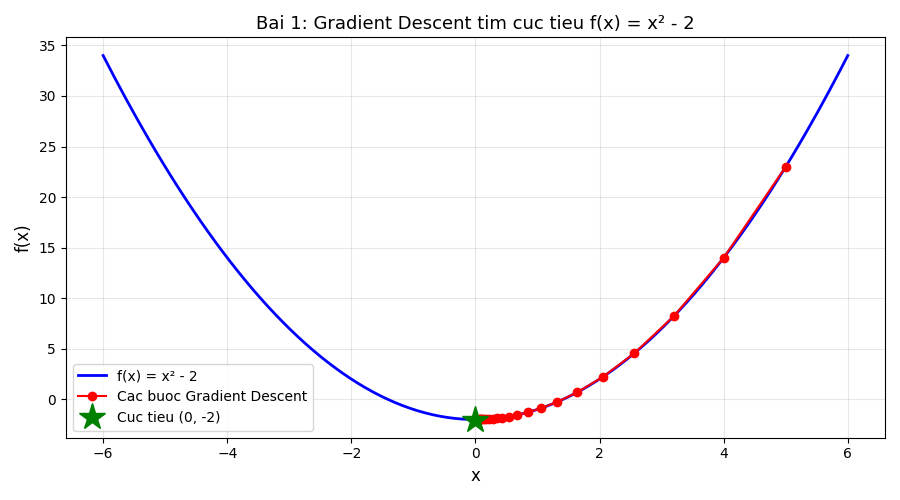
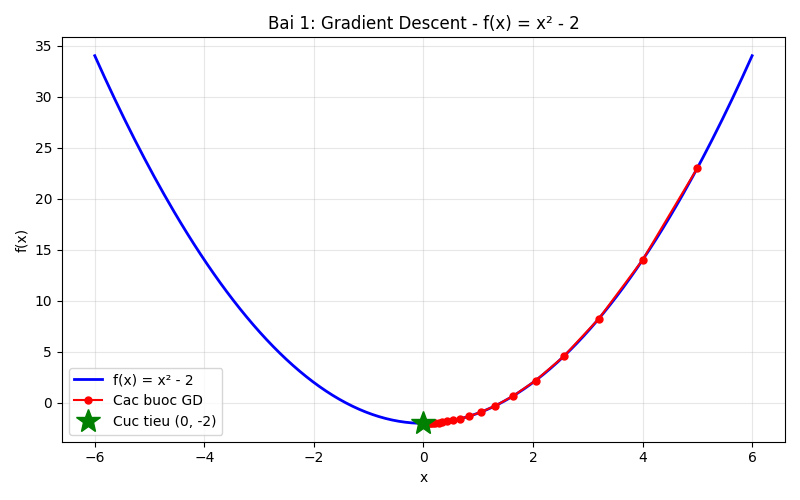
Viet lai 2 bai Gradient Descent theo phong cach trong so (cost, grad, myGD)

diff --git a/gradientDescent/bai2_gradient_descent.py b/gradientDescent/bai2_gradient_descent.py
@@ -1,16 +1,13 @@
 """
 bai2_gradient_descent.py
 ========================
-BÀI 2: Tìm giá trị cực tiểu của hàm số g(x) = (1/3)x³ - x
-bằng thuật toán Gradient Descent.
+BÀI 2: Tìm giá trị cực tiểu của g(x) = (1/3)x³ - x bằng Gradient Descent
 
-Công thức đạo hàm: (a·xⁿ)' = n·(a·xⁿ⁻¹)
-  g'(x) = 3·(1/3)·x² - 1·x⁰ = x² - 1
-
-Lưu ý: g(x) là hàm bậc 3, có 2 điểm critical (g'(x)=0):
-  x = 1  -> g(1)  = -2/3  (cực tiểu)
-  x = -1 -> g(-1) =  2/3  (cực đại)
-Gradient Descent sẽ tìm CỰC TIỂU (x = 1) nếu chọn điểm khởi tạo phù hợp.
+Phân tích (như trong sổ):
+  g(x)  = (1/3)x³ - x
+  g'(x) = 3·(1/3)·x² - 1 = x² - 1 = 0  ->  x = ±1
+  x = 1  -> g(1) = -2/3  (cuc tieu)
+  x = -1 -> g(-1) = 2/3  (cuc dai)
 """
 
 import numpy as np
@@ -19,99 +16,57 @@ matplotlib.use('Agg')
 import matplotlib.pyplot as plt
 
 
-# ============================================================
-# HÀM SỐ VÀ ĐẠO HÀM
-# ============================================================
-def g(x):
-    """Hàm số g(x) = (1/3)x³ - x"""
+# Ham so g(x) = (1/3)x^3 - x
+def cost(x):
     return (1/3) * x**3 - x
 
 
-def g_prime(x):
-    """Đạo hàm g'(x) = x² - 1"""
-    return x**2 - 1
+# Dao ham g'(x) = x^2 - 1
+def grad(x):
+    return x * x - 1
 
 
-# ============================================================
-# GRADIENT DESCENT
-# ============================================================
-def gradient_descent(lr=0.05, x0=3.0, epochs=50, tol=1e-6):
-    """
-    Gradient Descent tìm cực tiểu g(x).
-
-    Parameters:
-    -----------
-    lr     : learning_rate
-    x0     : điểm khởi tạo (chon > 1 de tim cuc tieu tai x=1)
-    epochs : số lần lặp tối đa
-    tol    : ngưỡng dừng
-
-    Returns:
-    --------
-    history : danh sách (x, g(x)) qua từng bước
-    """
-    x = x0
-    history = [(x, g(x))]
-    print(f"{'Buoc':>5} {'x':>12} {'g(x)':>12} {'g_der':>12}")
-    print("-" * 45)
-
-    for i in range(epochs):
-        grad = g_prime(x)          # Tính đạo hàm
-        x = x - lr * grad          # Cập nhật x = x - lr·g'(x)
-        history.append((x, g(x)))
-
-        print(f"{i+1:>5} {x:>12.6f} {g(x):>12.6f} {g_prime(x):>12.6f}")
-
-        if abs(g_prime(x)) < tol:
-            print(f"\n>> Dừng ở buoc {i+1}: |g'(x)| < {tol}")
+# Gradient Descent
+# x0: diem khoi tao, eta: learning rate
+def myGD(x0, eta):
+    x = [x0]
+    for it in range(100):
+        x_new = x[-1] - eta * grad(x[-1])   # Cap nhat: x = x - eta * g'(x)
+        if abs(grad(x_new)) < 1e-3:          # Dung khi g'(x) gan 0
             break
-
-    return history
+        x.append(x_new)
+    return x, it
 
 
 # ============================================================
-# VẼ HÌNH
+# CHAY CHINH
 # ============================================================
-def plot_result(history):
-    """Vẽ hàm số và các bước Gradient Descent"""
+if __name__ == "__main__":
+    # Chay Gradient Descdescent (x0 = 3 > 1 de tim cuc tieu tai x = 1)
+    x, it = myGD(x0=3.0, eta=0.05)
+
+    # In ket qua tung buoc
+    print("Buoc |       x |     g(x) |    g'(x)")
+    print("-" * 45)
+    for i, xi in enumerate(x):
+        print(f"{i:>4} | {xi:>7.4f} | {cost(xi):>8.4f} | {grad(xi):>8.4f}")
+
+    # Ket qua
+    print(f"\nKET QUA:")
+    print(f"  So buoc lap: {it}")
+    print(f"  x* = {x[-1]:.6f}  (ky vong: 1)")
+    print(f"  g(x*) = {cost(x[-1]):.6f}  (ky vong: -0.6667 = -2/3)")
+
+    # Ve hinh
     xs = np.linspace(-3, 3, 300)
-
-    plt.figure(figsize=(9, 5))
-    plt.plot(xs, g(xs), 'b-', linewidth=2, label="g(x) = (1/3)x³ - x")
-
-    # Các bước GD
-    hx = [h[0] for h in history]
-    hy = [h[1] for h in history]
-    plt.plot(hx, hy, 'ro-', markersize=6, label='Cac buoc Gradient Descent')
-
-    # Đánh dấu các điểm critical
-    plt.plot(1, g(1), 'g*', markersize=20, label='Cuc tieu (1, -2/3)')
-    plt.plot(-1, g(-1), 'm*', markersize=20, label='Cuc dai (-1, 2/3)')
-
-    plt.xlabel('x', fontsize=12)
-    plt.ylabel('g(x)', fontsize=12)
-    plt.title("Bai 2: Gradient Descent tim cuc tieu g(x) = (1/3)x³ - x", fontsize=13)
-    plt.legend(fontsize=9)
-    plt.grid(True, alpha=0.3)
+    plt.figure(figsize=(8, 5))
+    plt.plot(xs, cost(xs), 'b-', linewidth=2, label='g(x) = (1/3)x³ - x')
+    plt.plot(x, [cost(xi) for xi in x], 'ro-', markersize=5, label='Cac buoc GD')
+    plt.plot(1, cost(1), 'g*', markersize=18, label='Cuc tieu (1, -2/3)')
+    plt.plot(-1, cost(-1), 'm*', markersize=18, label='Cuc dai (-1, 2/3)')
+    plt.xlabel('x'); plt.ylabel('g(x)')
+    plt.title('Bai 2: Gradient Descent - g(x) = (1/3)x³ - x')
+    plt.legend(); plt.grid(True, alpha=0.3)
     plt.tight_layout()
     plt.savefig('hinh_anh/bai2_gradient_descent.png', dpi=100)
     print("\n[OK] Da luu: hinh_anh/bai2_gradient_descent.png")
-
-
-# ============================================================
-# CHẠY CHÍNH
-# ============================================================
-if __name__ == "__main__":
-    print("=" * 50)
-    print("BÀI 2: g(x) = (1/3)x³ - x  |  g'(x) = x² - 1")
-    print("=" * 50)
-
-    history = gradient_descent(lr=0.05, x0=3.0, epochs=50)
-
-    # Kết quả cuối
-    x_final, gx_final = history[-1]
-    print(f"\nKET QUA:")
-    print(f"  Gia tri cuc toi x* = {x_final:.6f}  (ky vong: 1)")
-    print(f"  g(x*) = {gx_final:.6f}           (ky vong: -0.666667 = -2/3)")
-
-    plot_result(history)

diff --git a/gradientDescent/bai1_gradient_descent.py b/gradientDescent/bai1_gradient_descent.py
@@ -1,17 +1,11 @@
 """
 bai1_gradient_descent.py
 ========================
-BÀI 1: Tìm giá trị cực tiểu của hàm số f(x) = x² - 2
-bằng thuật toán Gradient Descent.
+BÀI 1: Tìm giá trị cực tiểu của f(x) = x² - 2 bằng Gradient Descent
 
-Công thức đạo hàm: (a·xⁿ)' = n·(a·xⁿ⁻¹)
-=> f'(x) = 2x
-
-Gradient Descent:
-  x_mới = x_cũ - learning_rate · f'(x_cũ)
-  Lặp đến khi |f'(x)| nhỏ hơn ngưỡng cho trước.
-
-Kết quả mong đợi: x* ≈ 0 (cực tiểu), f(x*) ≈ -2
+Phân tích (như trong sổ):
+  f(x)  = x² - 2
+  f'(x) = 2x = 0  ->  x = 0  (cực tiểu, f(0) = -2)
 """
 
 import numpy as np
@@ -20,99 +14,56 @@ matplotlib.use('Agg')
 import matplotlib.pyplot as plt
 
 
-# ============================================================
-# HÀM SỐ VÀ ĐẠO HÀM
-# ============================================================
-def f(x):
-    """Hàm số f(x) = x² - 2"""
-    return x**2 - 2
+# Ham so f(x) = x^2 - 2
+def cost(x):
+    return x * x - 2
 
 
-def f_prime(x):
-    """Đạo hàm f'(x) = 2x"""
+# Dao ham f'(x) = 2x
+def grad(x):
     return 2 * x
 
 
-# ============================================================
-# GRADIENT DESCENT
-# ============================================================
-def gradient_descent(lr=0.1, x0=5.0, epochs=50, tol=1e-6):
-    """
-    Gradient Descent tìm cực tiểu f(x).
-
-    Parameters:
-    -----------
-    lr     : learning_rate (tốc độ học)
-    x0     : điểm khởi tạo
-    epochs : số lần lặp tối đa
-    tol    : ngưỡng dừng (khi |f'(x)| < tol)
-
-    Returns:
-    --------
-    history : danh sách các cặp (x, f(x)) qua từng bước
-    """
-    x = x0
-    history = [(x, f(x))]
-    print(f"{'Buoc':>5} {'x':>12} {'f(x)':>12} {'f_der':>12}")
-    print("-" * 45)
-
-    for i in range(epochs):
-        grad = f_prime(x)          # Tính đạo hàm (gradient)
-        x = x - lr * grad          # Cập nhật x: x = x - lr·f'(x)
-        history.append((x, f(x)))
-
-        print(f"{i+1:>5} {x:>12.6f} {f(x):>12.6f} {f_prime(x):>12.6f}")
-
-        # Dừng khi đạo hàm gần bằng 0 (đã tới cực tiểu)
-        if abs(f_prime(x)) < tol:
-            print(f"\n>> Dừng ở buoc {i+1}: |f'(x)| < {tol}")
+# Gradient Descent
+# x0: diem khoi tao, eta: learning rate
+def myGD(x0, eta):
+    x = [x0]
+    for it in range(100):
+        x_new = x[-1] - eta * grad(x[-1])   # Cap nhat: x = x - eta * f'(x)
+        if abs(grad(x_new)) < 1e-3:          # Dung khi f'(x) gan 0
             break
-
-    return history
+        x.append(x_new)
+    return x, it
 
 
 # ============================================================
-# VẼ HÌNH
+# CHAY CHINH
 # ============================================================
-def plot_result(history):
-    """Vẽ hàm số và các bước Gradient Descent"""
+if __name__ == "__main__":
+    # Chay Gradient Descent
+    x, it = myGD(x0=5.0, eta=0.1)
+
+    # In ket qua tung buoc
+    print("Buoc |       x |     f(x) |    f'(x)")
+    print("-" * 45)
+    for i, xi in enumerate(x):
+        print(f"{i:>4} | {xi:>7.4f} | {cost(xi):>8.4f} | {grad(xi):>8.4f}")
+
+    # Ket qua
+    print(f"\nKET QUA:")
+    print(f"  So buoc lap: {it}")
+    print(f"  x* = {x[-1]:.6f}  (ky vong: 0)")
+    print(f"  f(x*) = {cost(x[-1]):.6f}  (ky vong: -2)")
+
+    # Ve hinh
     xs = np.linspace(-6, 6, 200)
-
-    plt.figure(figsize=(9, 5))
-    plt.plot(xs, f(xs), 'b-', linewidth=2, label='f(x) = x² - 2')
-
-    # Vẽ các bước GD
-    hx = [h[0] for h in history]
-    hy = [h[1] for h in history]
-    plt.plot(hx, hy, 'ro-', markersize=6, label='Cac buoc Gradient Descent')
-
-    # Đánh dấu cực tiểu
-    plt.plot(0, -2, 'g*', markersize=20, label='Cuc tieu (0, -2)')
-
-    plt.xlabel('x', fontsize=12)
-    plt.ylabel('f(x)', fontsize=12)
-    plt.title('Bai 1: Gradient Descent tim cuc tieu f(x) = x² - 2', fontsize=13)
-    plt.legend(fontsize=10)
-    plt.grid(True, alpha=0.3)
+    plt.figure(figsize=(8, 5))
+    plt.plot(xs, cost(xs), 'b-', linewidth=2, label='f(x) = x² - 2')
+    plt.plot(x, [cost(xi) for xi in x], 'ro-', markersize=5, label='Cac buoc GD')
+    plt.plot(0, -2, 'g*', markersize=18, label='Cuc tieu (0, -2)')
+    plt.xlabel('x'); plt.ylabel('f(x)')
+    plt.title('Bai 1: Gradient Descent - f(x) = x² - 2')
+    plt.legend(); plt.grid(True, alpha=0.3)
     plt.tight_layout()
     plt.savefig('hinh_anh/bai1_gradient_descent.png', dpi=100)
     print("\n[OK] Da luu: hinh_anh/bai1_gradient_descent.png")
-
-
-# ============================================================
-# CHẠY CHÍNH
-# ============================================================
-if __name__ == "__main__":
-    print("=" * 50)
-    print("BÀI 1: f(x) = x² - 2  |  f'(x) = 2x")
-    print("=" * 50)
-
-    history = gradient_descent(lr=0.1, x0=5.0, epochs=50)
-
-    # Kết quả cuối
-    x_final, fx_final = history[-1]
-    print(f"\nKET QUA:")
-    print(f"  Gia tri cuc toi x* = {x_final:.6f}  (ky vong: 0)")
-    print(f"  f(x*) = {fx_final:.6f}            (ky vong: -2)")
-
-    plot_result(history)
